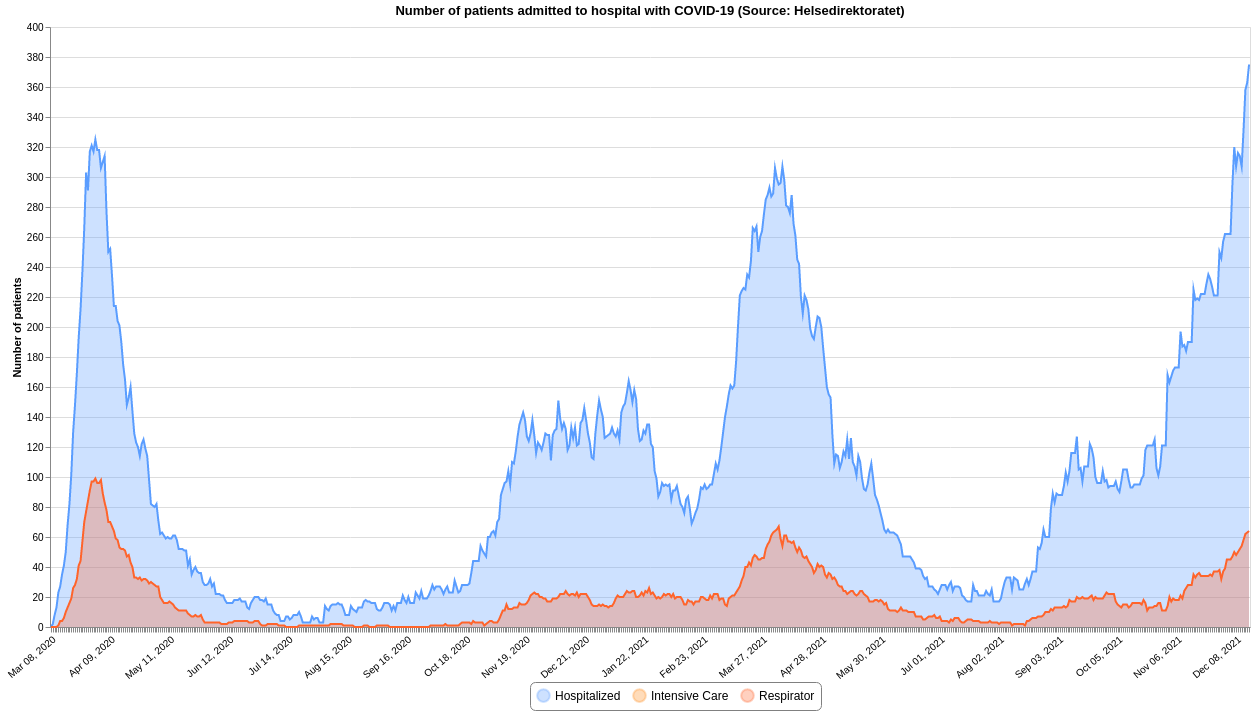
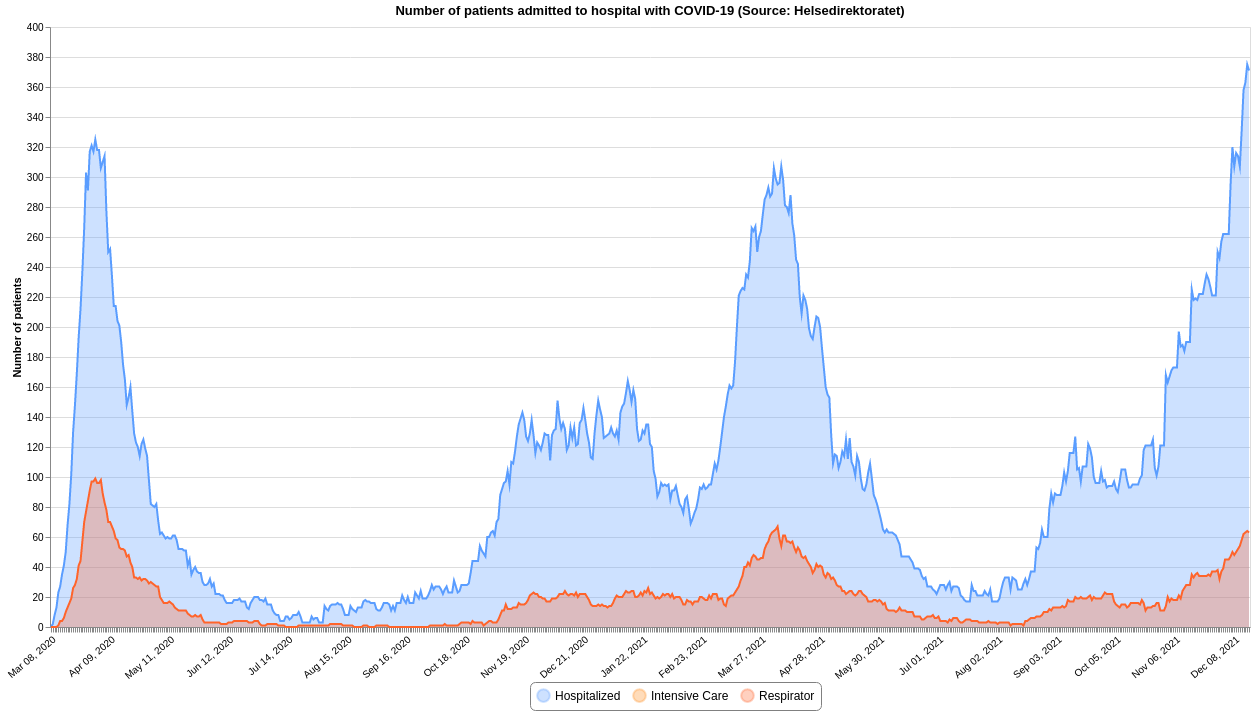
Updated 2021-12-16 12:21

diff --git a/README.md b/README.md
@@ -12,7 +12,7 @@ This repository contains datasets of daily time-series data related to COVID-19 
 | :--- | :--- | :--- | :--- | :--- |
 |[Confirmed](#confirmedcsv)|FHI / MSIS|2021-12-16 00:20:45+01:00|[<center>csv</center>](https://raw.githubusercontent.com/frefrik/covid19norge-data/main/data/confirmed.csv)|[<center>preview</center>](data/confirmed.csv)|
 |[Dead](#deadcsv)|FHI|2021-12-15 13:20:53+01:00|[<center>csv</center>](https://raw.githubusercontent.com/frefrik/covid19norge-data/main/data/dead.csv)|[<center>preview</center>](data/dead.csv)|
-|[Hospitalized](#hospitalizedcsv)|Helsedirektoratet|2021-12-15 12:20:53+01:00|[<center>csv</center>](https://raw.githubusercontent.com/frefrik/covid19norge-data/main/data/hospitalized.csv)|[<center>preview</center>](data/hospitalized.csv)|
+|[Hospitalized](#hospitalizedcsv)|Helsedirektoratet|2021-12-16 12:20:49+01:00|[<center>csv</center>](https://raw.githubusercontent.com/frefrik/covid19norge-data/main/data/hospitalized.csv)|[<center>preview</center>](data/hospitalized.csv)|
 |[Tested](#testedcsv)|FHI|2021-12-15 13:10:47+01:00|[<center>csv</center>](https://raw.githubusercontent.com/frefrik/covid19norge-data/main/data/tested.csv)|[<center>preview</center>](data/tested.csv)|
 |[Tested Lab](#tested_labcsv)|FHI|2021-12-15 13:20:48+01:00|[<center>csv</center>](https://raw.githubusercontent.com/frefrik/covid19norge-data/main/data/tested_lab.csv)|[<center>preview</center>](data/tested_lab.csv)|
 |[Transport](#transportcsv)|FHI|2021-09-24 23:10:46+02:00|[<center>csv</center>](https://raw.githubusercontent.com/frefrik/covid19norge-data/main/data/transport.csv)|[<center>preview</center>](data/transport.csv)|
